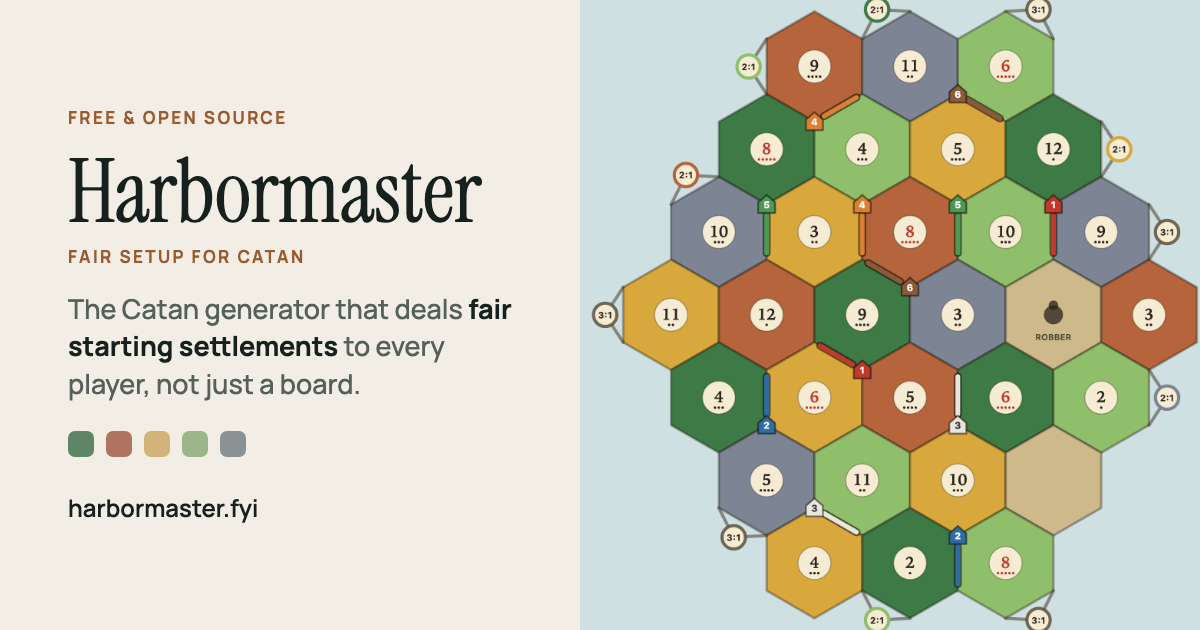
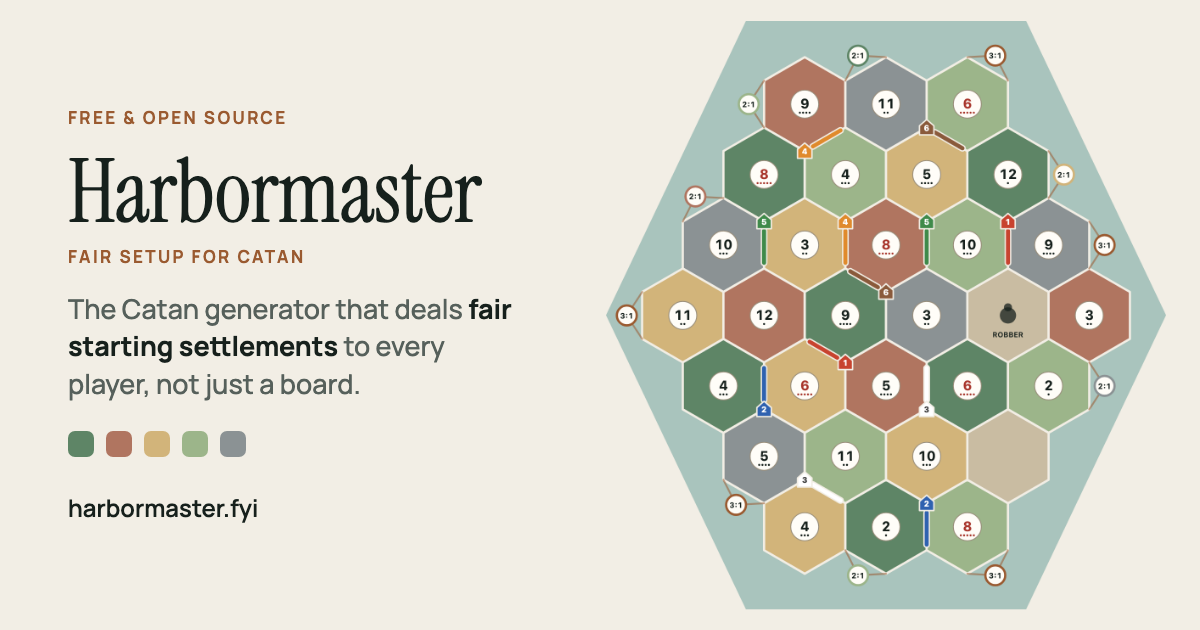
og card: board fits inside the 1200x630 frame; re-rendered from the landed Tide page

diff --git a/docs/og-card.html b/docs/og-card.html
@@ -19,7 +19,7 @@
   .dots{display:flex;gap:12px;margin-top:6px}
   .dots i{width:26px;height:26px;border-radius:7px;display:block}
   .url{font-size:24px;font-weight:600;font-variant-numeric:tabular-nums;color:#16201c;margin-top:12px}
-  .right{position:absolute;right:-40px;top:50%;transform:translateY(-50%);width:660px}
+  .right{position:absolute;right:34px;top:50%;transform:translateY(-50%);width:560px}
   .right img{width:100%;display:block}
 </style></head><body>
   <div class="card">
